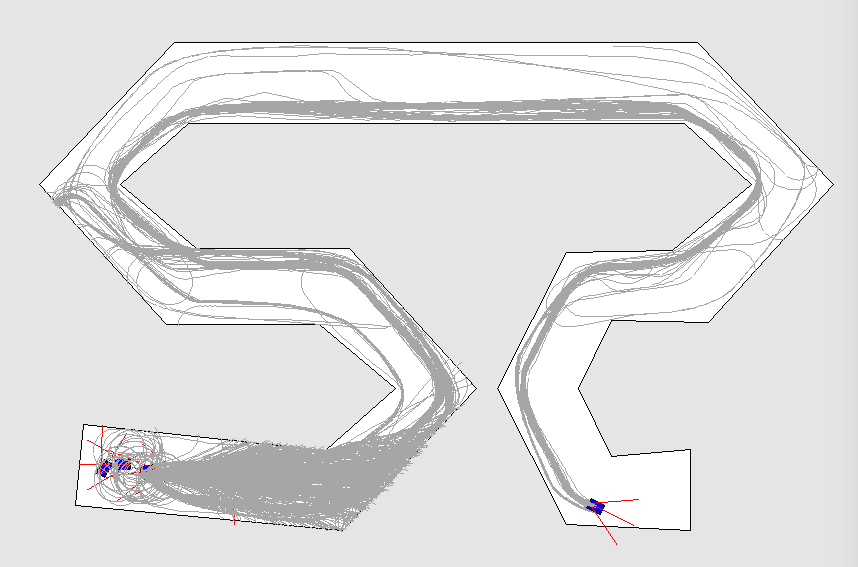
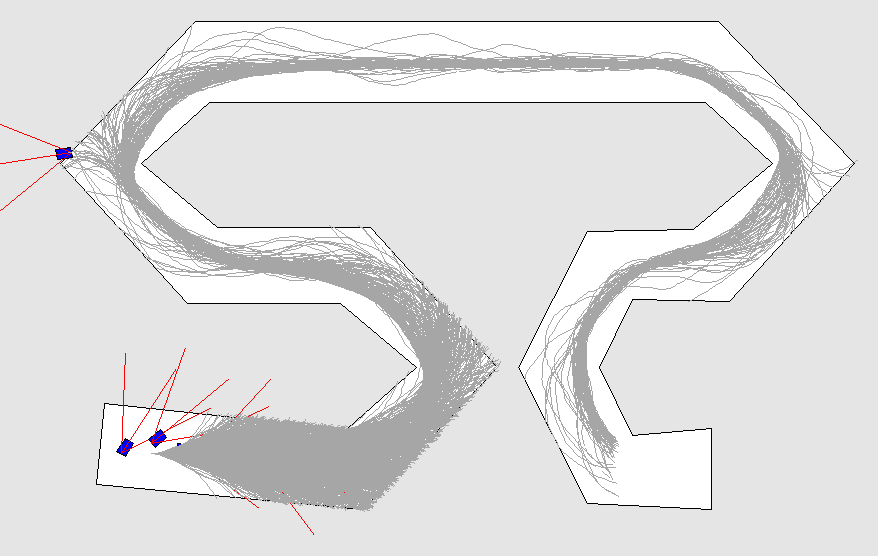
Made lot of changes, mainly to assure convergence

Changed region(s): [[0.0303, 0.0306, 0.9697, 0.9478], [0.4545, 0.8255, 0.4848, 0.8561], [0.1818, 0.6727, 0.2121, 0.7032]]

diff --git a/rlcarsim.py b/rlcarsim.py
@@ -7,12 +7,12 @@ import os
 # For training only one car is used(First one). For run_only all cars are simulated.
 # For a change in dynamics of the car: initial state -> position and orientation(radians), car size, limits, sensor range and sensor angle(randians), make sure the algorithm is trained first.
 cars = [
-    { 'id':1, 'state':[1,0.3,0], 'L':0.3, 'W':0.1, 'v':1, 'v_limit':2 ,'gamma':-0.15, 'gamma_limit':0.61, 'sensors':[{'range':1.0,'angle':0.53},{'range':1.0,'angle':0},{'range':1.0,'angle':-0.53}] },
-    { 'id':2, 'state':[0.4,0.3,1], 'L':0.3, 'W':0.1, 'v':1, 'v_limit':2 ,'gamma':-0.15, 'gamma_limit':0.61, 'sensors':[{'range':1.0,'angle':0.53},{'range':1.0,'angle':0},{'range':1.0,'angle':-0.53}] },
-    { 'id':3, 'state':[3,0.3,-1], 'L':0.3, 'W':0.1, 'v':1, 'v_limit':2 ,'gamma':-0.15, 'gamma_limit':0.61, 'sensors':[{'range':1.0,'angle':0.53},{'range':1.0,'angle':0},{'range':1.0,'angle':-0.53}] },
-    { 'id':4, 'state':[1.5,0.4,-3], 'L':0.3, 'W':0.1, 'v':1, 'v_limit':2 ,'gamma':-0.15, 'gamma_limit':0.61, 'sensors':[{'range':1.0,'angle':0.53},{'range':1.0,'angle':0},{'range':1.0,'angle':-0.53}] },
-    { 'id':5, 'state':[2,0.3,3], 'L':0.3, 'W':0.1, 'v':1, 'v_limit':2 ,'gamma':-0.15, 'gamma_limit':0.61, 'sensors':[{'range':1.0,'angle':0.53},{'range':1.0,'angle':0},{'range':1.0,'angle':-0.53}] },
-    { 'id':6, 'state':[1,0.5,-3.14], 'L':0.3, 'W':0.1, 'v':1, 'v_limit':2 ,'gamma':-0.15, 'gamma_limit':0.61, 'sensors':[{'range':1.0,'angle':0.53},{'range':1.0,'angle':0},{'range':1.0,'angle':-0.53}] },
+    { 'id':1, 'state':[1,0.3,0], 'L':0.3, 'W':0.1, 'v_limit':2 , 'gamma_limit':0.61, 'sensors':[{'range':2.0,'angle':0.53},{'range':2.0,'angle':0},{'range':2.0,'angle':-0.53}] },
+    { 'id':2, 'state':[0.4,0.3,1], 'L':0.3, 'W':0.1, 'v_limit':2 , 'gamma_limit':0.61, 'sensors':[{'range':2.0,'angle':0.53},{'range':2.0,'angle':0},{'range':2.0,'angle':-0.53}] },
+    { 'id':3, 'state':[3,0.3,-0.4], 'L':0.3, 'W':0.1, 'v_limit':2 , 'gamma_limit':0.61, 'sensors':[{'range':2.0,'angle':0.53},{'range':2.0,'angle':0},{'range':2.0,'angle':-0.53}] },
+    { 'id':4, 'state':[1.5,0.4,-0.1], 'L':0.3, 'W':0.1, 'v_limit':2 , 'gamma_limit':0.61, 'sensors':[{'range':2.0,'angle':0.53},{'range':2.0,'angle':0},{'range':2.0,'angle':-0.53}] },
+    { 'id':5, 'state':[2,0.3,0.3], 'L':0.3, 'W':0.1, 'v_limit':2 , 'gamma_limit':0.61, 'sensors':[{'range':2.0,'angle':0.53},{'range':2.0,'angle':0},{'range':2.0,'angle':-0.53}] },
+    { 'id':6, 'state':[1,0.5,0.7], 'L':0.3, 'W':0.1, 'v_limit':2 , 'gamma_limit':0.61, 'sensors':[{'range':2.0,'angle':0.53},{'range':2.0,'angle':0},{'range':2.0,'angle':-0.53}] },
 ]
 
 # Different track definitions.
@@ -30,20 +30,22 @@ track = {
 # Paramerters used by the reinforcement learning algorithm
 rl_parameters = {
     'actions':[(0.5,0),(0.5,0.6),(0.5,-0.6),(1.5,0),(1.5,0.1),(1.5,-0.1)], # Possible actions the agent can take: list of (velocity,steering) tuples
-    'epsilon':0.76, # Initial epsilon value to start traingin with
-    'max_epsilon':0.98, # Maximum epsilon value to be set as the agent learns
-    'epsilon_step':0.02, # Increment to epsilon after every epoch(termination of a run)
-    'gamma':0.5, # Discount factor
+    'epsilon':0.0,#0.5 # Initial epsilon value to start traingin with
+    'max_epsilon':0.9,#0.93 # Maximum epsilon value to be set as the agent learns
+    'epsilon_step':0.0015,#0.0004 # Increment to epsilon after every epoch(termination of a run)
+    'gamma':0.99, # Discount factor
     'lr_alpha':0.001, # Learning rate for back proportion update of neural netwrok
     'leak_alpha':0.3, # Used by the LeakyReLU activation function after each layer in the NN
     'max_steps':1000, # Timout for the cars to comlete the track, to avoid them going round and round in circles
-    'collision_reward':-500, # Reward offered if car collides
-    'timeup_reward':-500, # Reward offered if time runs out
-    'destination_reward':300, # Reward offered if car completes the track
-    'buffer_length':30000, # Size of replay memory to train the NN
+    'collision_reward':-1, # Reward offered if car collides
+    'timeup_reward':-1, # Reward offered if time runs out
+    'destination_reward':1, # Reward offered if car completes the track
+    'buffer_length':300000, # Size of replay memory to train the NN
+    'replay_start_at':30000, # When to start using replay to learn
     'batchsize':256, # Size of batch to process weight update, varied based on CPU/GPU resources available
     'minibatchsize':256, # Size of batch to update weight at each step. Large values learn more but are slower to process
-    'state_dimension':3 #len(cars[0]['sensors']) -> Number of sensors on the 1st car
+    'state_dimension':3, #len(cars[0]['sensors']) -> Number of sensors on the 1st car
+    'random_car_position':False
 }
 
 # Dynamics and control update rate
@@ -156,6 +158,10 @@ def reinfrocement_neural_network_control(load_weights=None,run_only=False,track_
         return None
 
     initialize(run_state=run)
+    ######### REMOVE THIS TIME WHILE COMMITING
+    import time
+    time.sleep(10)
+    #########
     while(1):
         new_run_state = check_run_button(current_state=run)
         if new_run_state is not None: run=new_run_state
@@ -189,6 +195,23 @@ def reinfrocement_neural_network_control(load_weights=None,run_only=False,track_
             else:
                 gui.update(0,car_objects[0].get_state(),draw_car=False)
 
+def make_parameter_changes(args):
+    if args.add_more_sensors is True:
+        for i in range(len(cars)):
+            cars[i]['sensors'] = [{'range':2.0,'angle':1.0},{'range':2.0,'angle':0.53},{'range':2.0,'angle':0},{'range':2.0,'angle':-0.53},{'range':2.0,'angle':-1.0}]
+        rl_parameters['state_dimension'] = len(cars[0]['sensors'])
+    if args.sensor_length is not None:
+        if args.sensor_length=='long':
+            for i in range(len(cars)):
+                for j in range(len(cars[i]['sensors'])):
+                    cars[i]['sensors'][j]['range'] = 2.0
+        elif args.sensor_length=='short':
+            for i in range(len(cars)):
+                for j in range(len(cars[i]['sensors'])):
+                    cars[i]['sensors'][j]['range'] = 1.0
+    if args.random_car_position is True:
+        rl_parameters['random_car_position'] = True
+
 def parse_args():
     parser = argparse.ArgumentParser(description="RL-Car Project")
     parser.add_argument("--control", help="static/user/nn",default='static')
@@ -196,10 +219,14 @@ def parse_args():
     parser.add_argument("--load_weights", help="path to load saved weights, or \'all\' to load all available weights in succession")
     parser.add_argument("--track", help="L/ME/S/SE/SS",default='SS')
     parser.add_argument("--random_seed", help="Run reproducable results", default=None, type=int)
+    parser.add_argument("--sensor_length", help="short/long",default=None)
+    parser.add_argument("--random_car_position", dest='random_car_position', action='store_true', help="Initialize car position randomly while training")
+    parser.add_argument("--add_more_sensors", dest='add_more_sensors', action='store_true', help="Add 2 more sensors at +-60deg to improve state representation")
     return parser.parse_args()
 
 if __name__=='__main__':
     args = parse_args()
+    make_parameter_changes(args)
     if args.control=='static':
         static_control(track_select=args.track)
     elif args.control=='user':

diff --git a/RL.py b/RL.py
@@ -53,14 +53,14 @@ class QLearning_NN():
             reward = self.parameters['timeup_reward']
         elif agent.state == 'collided':
             reward = self.parameters['collision_reward']
-        #elif agent.state == 'destination':
-            #reward = self.parameters['destination_reward']
+        elif agent.state == 'destination':
+            reward = self.parameters['destination_reward']
         else:
             #reward = 0
-            reward = agent.score # Encourages the car to MOVE, not necessarily forward, infact moving in circles is encouraged
+            #reward = agent.score # Encourages the car to MOVE, not necessarily forward, infact moving in circles is encouraged
             #reward = -30+agent.score # Encourages the car to crash and end its misery
             #reward = -1 # To factor in time but encourages the car to crash and end its misery. Useful if destination reward is high
-            #reward = 0 if agent.score-agent.prev_score>0 else -1
+            reward = 1 if agent.score-agent.prev_score>0 else -1
         return reward
 
     def train_nn(self,sensor_readings,action,reward,new_sensor_readings,agent_state):
@@ -70,6 +70,7 @@ class QLearning_NN():
             self.replay_index += 1
             if self.replay_index>=self.parameters['buffer_length']: self.replay_index=0
             self.replay[self.replay_index] = ((sensor_readings,action,reward,new_sensor_readings,agent_state))
+        if (len(self.replay)>self.parameters['replay_start_at']):
             minibatch = random.sample(self.replay, self.parameters['minibatchsize'])
             mb_len = len(minibatch)
             old_states = np.zeros(shape=(mb_len, self.parameters['state_dimension']))
@@ -90,23 +91,23 @@ class QLearning_NN():
             maxQs = np.max(new_qvals, axis=1)
             y = old_qvals
             non_term_inds = np.where(car_state == 'running')[0]
-            non_term_inds = np.concatenate((non_term_inds,np.where(car_state == 'destination')[0]))
+            #non_term_inds = np.concatenate((non_term_inds,np.where(car_state == 'destination')[0]))
             term_inds = np.where(car_state == 'timeup')[0]
             term_inds = np.concatenate((term_inds,np.where(car_state == 'collided')[0]))
-            #term_inds = np.concatenate((term_inds,np.where(rewards == destination_reward)[0]))
+            term_inds = np.concatenate((term_inds,np.where(car_state == 'destination_reward')[0]))
             y[non_term_inds, old_actions[non_term_inds].astype(int)] = rewards[non_term_inds] + (self.parameters['gamma'] * maxQs[non_term_inds])
             y[term_inds, old_actions[term_inds].astype(int)] = rewards[term_inds]
             X_train = old_states
             y_train = y
             self.train_hist = self.model.fit(X_train, y_train, batch_size=self.parameters['batchsize'], epochs=1, verbose=0)
 
-    def check_terminal_state_and_log(self,agent):
+    def check_terminal_state_and_log(self,agent,env):
         self.itr += 1
         self.avg_loss = 0 if self.train_hist is None else (self.avg_loss+self.train_hist.history['loss'][0])
         terminal_state,debug_data = None,None
         if agent.state=='collided' or agent.state=='destination' or agent.state=='timeup':
             self.epoch += 1
-            if (len(self.replay)==self.parameters['buffer_length']) and self.parameters['epsilon']<self.parameters['max_epsilon']:
+            if (len(self.replay)>=self.parameters['replay_start_at']) and self.parameters['epsilon']<self.parameters['max_epsilon']:
                 self.parameters['epsilon'] += self.parameters['epsilon_step']
             self.avg_loss /= self.itr
             self.log['avg_loss'].append(self.avg_loss)
@@ -126,6 +127,8 @@ class QLearning_NN():
             self.avg_loss,self.itr = 0,0
             terminal_state = agent.get_state()
             agent.reset()
+            if self.parameters['random_car_position']==True:
+                agent.set_state([1+env.route[0].x+(env.track_width*1.2*(random.random()-0.5)),env.route[0].y+(env.track_width*1.2*(random.random()-0.5)),env.start_angle+(random.random()-0.5)])
         return terminal_state,debug_data,self.log['epoch'],self.log['avg_loss'],self.log['final_score'],self.log['cross_score']
 
     def check_terminal_state(self,agent):
@@ -141,7 +144,7 @@ class QLearning_NN():
         new_sensor_values = np.array(agent.get_sensor_reading())
         reward = self.reward_function(agent)
         self.train_nn(sensor_values,action_taken,reward,new_sensor_values,agent.state)
-        return self.check_terminal_state_and_log(agent)
+        return self.check_terminal_state_and_log(agent,env)
 
     def run_step(self,agent,env,dt):
         self.take_action(agent,dt,epsilon_override=1.0)

diff --git a/Environment.py b/Environment.py
@@ -30,6 +30,11 @@ class Vector():
     def length(self):
         return math.sqrt(self.vector.x**2 + self.vector.y**2)
 
+    def angle(self):
+        if self.vector.x==0:
+            return 0.0
+        return math.atan(self.vector.y/self.vector.x)
+
     def __add__(self,vec):
         return Vector(self.point,self.vector+vec.vector)
 
@@ -122,8 +127,14 @@ class Car():
     def set_steering(self,angle):
         self.gamma = self.constrain(angle,-self.detail['gamma_limit'],self.detail['gamma_limit'])
 
+    def get_steering(self):
+        return self.gamma 
+
     def set_velocity(self,velocity):
         self.v = self.constrain(velocity,-self.detail['v_limit'],self.detail['v_limit'])
+
+    def get_velocity(self):
+        return self.v
 
     def set_state(self,state):
         self.x,self.y,self.theta = state
@@ -151,6 +162,8 @@ class Car():
 class Environment():
     def __init__(self,environment_details,max_steps):
         self.max_steps = max_steps
+        self.track_width = environment_details['track_width']
+        self.start_angle = environment_details['start_angle']
         self.border_segments = []
         self.route = [Point(i) for i in environment_details['path']]
         self.route_segments = []
@@ -238,6 +251,7 @@ def track_generator(track_dict,track_select):
     track_dict['path'] = track_dict[track_select][:]
     path = track_dict['path']
     d = track_dict['track_width']
+    start_angle = 0.0
     side_L,side_R = [],[]
     for i in range(len(path)):
         p1,p2,p3 = None,Point(path[i]),None
@@ -245,6 +259,7 @@ def track_generator(track_dict,track_select):
             p3 = Point(path[i+1])
             u = Vector(p3,p2).unit_vector()
             p1 = u.vector*d + p2
+            start_angle = Vector(p2,p3).angle()
         elif i==(len(path)-1):
             p1 = Point(path[i-1])
             u = Vector(p1,p2).unit_vector()
@@ -257,3 +272,4 @@ def track_generator(track_dict,track_select):
         side_L.append((pl.x,pl.y))
         side_R.append((pr.x,pr.y))
     track_dict['points'] = side_R + side_L[::-1]
+    track_dict['start_angle'] = start_angle

diff --git a/plot_log.py b/plot_log.py
@@ -9,13 +9,13 @@ offset = 0
 
 fig = plt.figure()
 ax1 = plt.subplot(211)
-ax1.plot(epochs[offset:l],log['avg_loss'][offset:l],linestyle='-.',label='avg loss',linewidth=2,c='red')
+ax1.plot(epochs[offset:l],log['final_score'][offset:l],linestyle='--',label='final score',linewidth=2,c='blue')
 ax1.set_xlabel('Epochs')
-ax1.set_ylabel('Average loss')
+ax1.set_ylabel('Final score')
 ax1.legend(loc=3)
 ax2 = ax1.twinx()
-ax2.plot(epochs[offset:l],log['final_score'][offset:l],linestyle='--',label='final score',linewidth=2,c='blue')
-ax2.set_ylabel('Final score')
+ax2.plot(epochs[offset:l],log['avg_loss'][offset:l],linestyle='-.',label='avg loss',linewidth=2,c='red')
+ax2.set_ylabel('Average loss')
 ax2.legend(loc=2)
 
 ax3 = plt.subplot(212)

diff --git a/README.md b/README.md
@@ -4,6 +4,7 @@ A project to show how RL (specifically Q-learning) can be applied to make a car 
 ![Learning demo](/Images/rlcarsim_demo.gif?raw=true "Demo")
 Learning
 
+![Run only demo](/Images/rlcarsim_learned_demo_long.gif?raw=true "Demo")
 ![Run only demo](/Images/rlcarsim_learned_demo.gif?raw=true "Demo")
 Learned
 
@@ -27,33 +28,31 @@ $ python rlcarsim.py --control nn
 ```
 
 #### Argument examples:
-Setpoint run of the simulator with predefined velocities and steering, to observe sensor readings:
+Run with predefined velocities and steering, with user controlling all cars(w/a/s/d) or with RL NN:
 ```sh
 $ python rlcarsim.py --control static
-```
-User control of all simulated cars simultaneously with 'w/a/s/d' keys:
-```sh
+or
 $ python rlcarsim.py --control user
-```
-Training using RL NN:
-```sh
+or
 $ python rlcarsim.py --control nn
 ```
-Running a particular learned weight at epoch 675:
+Running a particular learned weight at epoch 675 or loading all saved weights iteratively:
 ```sh
 $ python rlcarsim.py --control nn --run_only --load_weights ./weights/rlcar_epoch_00675
-```
-Running each saved weight iteratively:
-```sh
+or
 $ python rlcarsim.py --control nn --run_only --load_weights all
 ```
-Selecting a track among the list of tracks defined in rlcarsim.py:
+Selecting a track among the list of tracks defined in rlcarsim.py, adding a random seed value and randomly initializing car start position:
 ```sh
-$ python rlcarsim.py --control nn --run_only --load_weights all --track SE
+$ python rlcarsim.py --control nn --track SE --random_seed 33 --random_car_position
 ```
-Assigning a random seed to generate reproducible(mostly) results:
+Setting predefined sensor configurations:
 ```sh
-$ python rlcarsim.py --control nn --random_seed 33
+$ python rlcarsim.py --control nn --sensor_length short
+or
+$ python rlcarsim.py --control nn --sensor_length long
+or
+$ python rlcarsim.py --control nn --sensor_length long --add_more_sensors
 ```
 Better visualization of the loss and scores (After/during training):
 ```sh
@@ -67,25 +66,27 @@ The goal was to create a custom track, where a car like object can be trained to
 
 When the program is run with *--control nn* arguments, the RL neural network training begins. Though all cars are initialized in the GUI, only the first car object is simulated to gather data for training the network. At each iteration, the car is moved with action taken based on the epsilon-greedy policy, and corresponding data for old state, action taken, reward gained and new state are stored in the *replay memory*. The probability of choosing action by the learned action-value function approximator verses choosing random action, the epsilon value, is incremented after each epoch. An epoch/episode is defined as the a run of the agent(car) until it terminates, when a terminal state is reached, which in this case may be either a collision, a timeout or a destination reached case.
 
-Initially the car accumulates replay data without learning, while filling up the replay bank. Once the memory is full, every successive iteration also involves random selection of a *minibatch* of samples from this replay memory and training the neural network based action-value function approximator using back propagation. While training, the GUI is updated with a run of the car every 100th episode. This is to encourage faster processing in the background, since a visual update is the biggest factor for a bottleneck in processing (due to the delay required to visualize the frame before update). However, the paths taken by the agent during this background processing can be seen updated on the GUI, by gray lines. It is interesting to note how these lines progress as the agent starts to learn, and follow through the track.
+Initially the car accumulates replay data without learning, while filling up the replay bank. Once the memory is filled upto a size defined by parameter *replay_start_at*, every successive iteration also involves random selection of a *minibatch* of samples from this replay memory and training the neural network based action-value function approximator using back propagation. While training, the GUI is updated with a run of the car every 100th episode. This is to encourage faster processing in the background, since a visual update is the biggest factor for a bottleneck in processing (due to the delay required to visualize the frame before update). However, the paths taken by the agent during this background processing can be seen updated on the GUI, by gray lines. It is interesting to note how these lines progress as the agent starts to learn, and follow through the track.
 
-For the batchsize set in the project, the agent usually takes approximately 400 epochs to fill up the replay memory and start training. For this period of time, the actions taken by the agent are random. Convergence to the destination in the *SS* track is usually achieved in 600-900 epochs. If the agent is not able to learn to reach the destination, as it often does and starts to oscillate generating poor samples to train off and hence diverging, it is advisable to restart the training from scratch. Though I have observed sometimes, the agent recovers from divergence and starts to converge again. The divergence or convergence nature can be observed from the *Average Loss* and *Cross Score* graphs plotted every 5 epochs in the GUI. The graph views can be switched using the buttons in the GUI (It takes 10 epochs to update though, will fix that later).
+For the batchsize set in the project, the agent usually takes approximately 700 epochs to fill up the replay memory and start training. For this period of time, the actions taken by the agent are random. Convergence to the destination in the *SS* track is usually achieved in 1400-1700 epochs. If the agent is not able to learn to reach the destination, it is advisable to restart the training from scratch or make changes to the parameters. The divergence or convergence nature can be observed from the *Average Loss* and *Cross Score* graphs plotted every 5 epochs in the GUI. The graph views can be switched using the buttons in the GUI (It takes 10 epochs to update though, will fix that later).
 
 Example of converging network
 
-<img src="/Images/rlcarsim_convergence.gif" width="30%">
-<img src="/Images/rlcarsim_convergence_plot.png" width="40%">
-<img src="/Images/rlcarsim_convergence_trace.png" width="50%">
-
-Example of diverging network
-
-<img src="/Images/rlcarsim_divergence.gif" width="30%">
-<img src="/Images/rlcarsim_divergence_plot.png" width="50%">
-<img src="/Images/rlcarsim_divergence_trace.png" width="50%">
+<img src="/Images/rlcarsim_convergence.png" width="30%"> <img src="/Images/rlcarsim_convergence_plot.png" width="40%"> <img src="/Images/rlcarsim_convergence_trace.png" width="50%">
 
 The convergence of the network might also be realized by observing the trace lines(gray lines indicating the paths taken by the agent during training) reaching the end of the track, the average score achieved by the car is approximately 41(for the SS track) and the run resulting in destination, all of which can be viewed in the GUI. At this point one might want to observe how the learned model performs if we followed the action-value function entirely (epsilon=100%). The GUI buttons *Learning* and *Run only* can be used to switch between training and testing the learned model. In the run-only method, epsilon is set to 1.0, meaning that the learned model is followed without any randomness, and all cars are simulated to complete the track. If however a particular learned weight needs to be observed, the simulation can be run by specifying the arguments to load the particular weight, an example of which is shown in the section *Argument examples* using the *--load_weights* and *--run_only* arguments.
 
-It was observed that once the agent learns to navigate the track and learn to avoid collisions, it tries to keep improving the neural network, often overfitting the network when the loss is too low. In such cases the network diverges, and can be a good indicator to stop the training process. Some random seeds which produced good results were 57,62,39,427,9925.
+When the learning starts, the agent tries to avoid colliding as the value of epsilon slowly increases. Initially the policy followed by the agent is that of a uniform normal distribution to follow any action, and hence the loss computed by the neural network training is low. As the agent learns and modifies its policy towards optimal behavior, the loss increases, since new values are to be back-propagated to for the neural network weights. However, this loss keeps increasing since, now the agent tries to follow this improved policy and hence accumulate more rewards, which propagates through the network and sets the value of weights different from what it was initially. As a result the loss keeps increasing initially while the agent learns and follows the improved policy. After some time this loss value starts reducing, which is when the agent has explored the maximum reward possible and now fits the NN weights. The cars seem to already learn to navigate the track, however if we wait for the network loss to minimize to ~0, the cars perform much better navigating the track.
+
+It was also observed that with smaller sensor range, there are scenarios where the value of the sensors are not sufficient to describe the state of the system completely. For example with smaller sensor ranges, the car cannot tell if its at the center of the track, or which direction the tracks are running along. However even with the smaller sensor ranges, the cars recognize this incomplete state situation and learns to find the edges of the track to keep in contact until it reaches its destination. Cars with large sensor ranges can be observed to travel fast through the middle of the track when its straight and slower and closer to the curbs around a corner. This behavior is analogous to that in a motorcycle race, since the dynamic model used for the car is a bicycle model. This can be simulated using the argument *--sensor_length short* or *--sensor_length long* to the run.
+
+Example of diverging(most often) network with bad parameters:
+
+<img src="/Images/rlcarsim_divergence.gif" width="30%"> <img src="/Images/rlcarsim_divergence_trace.png" width="55%">
+
+More tests can be simulated using the arguments *--add_more_sensors* and *--random_car_position* which alter the sensor configurations and randomly initialize the start state of the car respectively.
+
+Note: the loss value can build up to large values(~1000000), but then reduce eventually. A random seed value of 427 produced good results.
 
 ##### Car definitions
 The cars are defined in a list *cars* which contain the definition of a car with details like initial state, length, width, initial and maximum velocity and steering angles, sensors with maximum range and orientation of each with respect to the car. Orientation of the sensors are with respect to the cars' orientation, either of which is in radians.
@@ -105,9 +106,11 @@ The parameters that govern the reinforcement algorithm are defined in a dictiona
 - max_steps: The maximum number of steps allowed for a car to reach its goal before terminating it. Used to avoid car going round and round in circles
 - collision_reward, timeup_reward, destination_reward: rewards for respective states
 - buffer_length: The size of replay memory
+- replay_start_at: The size of replay memory to fill up before training starts
 - batchsize: Size of batch to process weight update, varied based on CPU/GPU resources available
 - minibatchsize: Size of batch to update weight at each step. Large values learn more but are slower to process
 - state_dimension: Size of inputs to the action-value function(NN) -> number of sensors on the 1st car
+- random_car_position: Initialize the position and orientation of the car randomly while starting a new epoch during training to explore all possible start points.
 Also
 - dt: The interval after which the state of a car is updated/controlled
 
@@ -126,18 +129,29 @@ This contains the neural network based Q-learning algorithm class definition. Th
 
 The action-value function used to determine the action with the best value(reward + future rewards), is what we want to learn, to follow the optimal path to the goal(in this case avoiding obstacles and reaching destination, in time). For a small finite set of states(input values to this action-value function), convergence is guaranteed. However in this example, the states are represented by the sensor values, which are considered continuous. Hence we use a neural network function approximator to predict the action-value for each state. As per my experiments, I found LeakyReLU to work best as the activation function for the neural network. As for the architecture of the neural network, trying out different network size and width can be experimented with. Also initial weights are not randomized, but set fixed to compare the performance of different algorithm parameters reliably.
 
-Determining a reward function is a major factor for the algorithm to learn the desirable behavior. For example, initially the lack of a timeout reward(negative) caused the car to learn to run in circles for ever, since that way it avoided any collision and hence obtained higher value. After trying different rewards for a normal running state of the car, I fixed on the car score, which is the distance traveled by the car along the track, encouraging the agent maximize the reward by heading towards the goal. However, using this method meant that the discount factor *gamma* needed to be small to indicate the agent to strive for short sighted maximum rewards. Iterations with a destination reward(positive) did not produce good results, and hence is ignored in the current algorithm, nevertheless can be used if required with minor changes.
+Determining a reward function is a major factor for the algorithm to learn the desirable behavior. For example, initially the lack of a timeout reward(negative) caused the car to learn to run in circles for ever, since that way it avoided any collision and hence obtained higher value. ~~After trying different rewards for a normal running state of the car, I fixed on the car score, which is the distance traveled by the car along the track, encouraging the agent maximize the reward by heading towards the goal. However, using this method meant that the discount factor *gamma* needed to be small to indicate the agent to strive for short sighted maximum rewards. Iterations with a destination reward(positive) did not produce good results, and hence is ignored in the current algorithm, nevertheless can be used if required with minor changes.~~ I tried out different reward functions evaluating the performance, and fixed the one where reward for collision and timeout were -1, for destination was +1, all of which were terminal states. Also to encourage the car to move forward, a discounted reward of +1 was given if moved forward and -1 otherwise. This simplified the model to try to accumulate more rewards over the long run since we set the value of discount factor *gamma* as 0.99. These configurations were inspired from the paper referred below and the results with these configurations were much consistent than before.
 
 The algorithms, methods and parameters used are largely influenced by the following:
-- Human-level control through deep reinforcement learning paper (With the difference in interpreting epsilon value\*)
-- Reinforcement Learning course by David Silver
+- Human-level control through deep reinforcement learning. https://www.nature.com/articles/nature14236 (With the difference in interpreting epsilon value\*)
+- Reinforcement Learning course by David Silver. http://www0.cs.ucl.ac.uk/staff/d.silver/web/Teaching.html
 
-\*I think epsilon=0.7 in the epsilon-greedy policy means be greedy to follow the learned policy(determined by the action-value function) 70%(epsilon) of the time. However the epsilon  used in the paper is in a reverse manner, and hence propagates from 1.0 to 0.1, while this epsilon in this project propagates from 0.76 to 0.98.
+\*~~I think epsilon=0.7 in the epsilon-greedy policy means be greedy to follow the learned policy(determined by the action-value function) 70%(epsilon) of the time. However the epsilon used in the paper is in a reverse manner, and hence propagates from 1.0 to 0.1, while this epsilon in this project propagates from 0.76 to 0.98.~~ After inspecting the paper, I realized that the epsilon-greedy policy is with respect to exploration, and hence it makes sense to use epsilon as the probability to use random action. However, I keep the use of epsilon inverted in this project.
 
 ##### GUI.py file
 The GUI is constructed using *Tkinter* library. It defines a window in which the cars and track is simulated in a top view fashion on the left side of the window, while the right side is organized for debugging and options. The track defined in the main file is automatically fitted into the space alloted to the left side. This means that if a much larger track is defined, the visual representation will be smaller. The right side contains buttons to select between the process of learning verses run only, along with debugging information like epoch, scores, loss, weight files etc. There is a graph representation, the contents of which can be switched using the provided buttons for *Average loss, Final score and Cross scores* respectively. The graphs can be better visualized using the provided *plot_log.py* file, an example to use this can be found in the section *Argument examples* above.
+
+## Changes
+- Added a parameter replay_start_at which decides when the learning starts even before completely filling up replay, hence allowing larger replay
+- Realized epsilon-greedy was with respect to exploration, however its inverted here.
+- Found the cars to run much better with the following parameters: epsilon from 0.0 to 0.9 with steps of 0.0015, discount factor gamma:0.99, reward system of terminals as -1(collision,timeup), +1(destination) and non-terminals as -1(car score reduces), +1(car score increases). While learning the NN diverges as new values are propagated and then converges.
+- Increased replay memory, so that all history can be used
+- Added a feature(parameters->random_car_position) to randomize car position and orientation in the start region while training.
+- Removed 'v' and 'gamma' from car definitions, they made no sense and not used anywhere
+- Added a function make_parameter_changes and arguments to the parser, to modify car sensors with arguments --sensor_length and --add_more_sensors along with the random start argument --random_car_position.
+- Added track_width and start_angle to environment variables to be used for random start of cars.
 
 ## To-do
 - Make the change in graph to button click immediate
 - Add other RL methods
 - Change the dynamics to be more realistic (acceleration and delta-steering model)
+- Implement an actual Ackerman model to simulate more realistic car drive, compare to the close-to-curb-around-corners behavior that it has currently.
